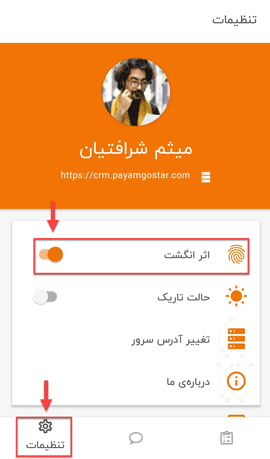
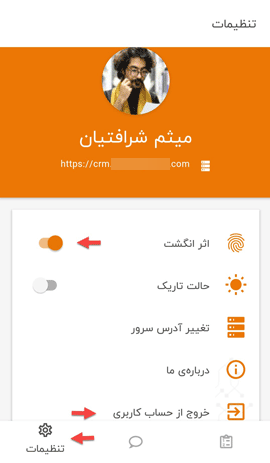
Edit login text and images with fingerprint

diff --git a/help2.5.4/Payamgostar'sMobileApp/LoginToApp.md b/help2.5.4/Payamgostar'sMobileApp/LoginToApp.md
@@ -1,11 +1,12 @@
 # راه های ورود به برنامه
 
 برخی اوقات ممکن است کاربران بنا به دلایلی چون عدم دسترسی به سیستم، مرخصی رفتن پرسنل، دورکاری، مسافرت و... امکان استفاده از نسخه تحت وب نرمافزار را نداشته باشند و از طرف دیگر احتمال لزوم انجام یک کار، شرایطی را فراهم کند که کاربران مجبور به استفاده از اپلیکیشن نرمافزار شوند تا بتوانند کار و وظیفه محول شده به خود را در اولین فرصت انجام دهند.<br>
-کاربران میبایست پس از نصب **اپلیکیشن پیام گستر** با نام کاربری و پسوردشان لاگین (ورود) کنند؛ در این مرحله در فیلد *آدرس سرور* باید IP مجموعه موردنظر وارد شود. شما میتوانید IP مجموعهتان را از لینک (URL) نسخه تحت وبتان بردارید. بهطور مثال شرکتی را در نظر بگیرید که نامش بامداد باشد و از آیدی crm.bamdad.com استفاده کند، بهطبع کاربرانش نیز باید همین عنوان را که در URL نسخه تحت وب مجموعه بامداد بوده، در فیلد *آدرس سرور* وارد کنند.
+کاربران میبایست پس از نصب **اپلیکیشن پیام گستر** با نام کاربری و پسوردشان لاگین (ورود) کنند؛ در این مرحله در فیلد *آدرس سرور* باید IP مجموعه موردنظر وارد شود. شما میتوانید IP مجموعهتان را از لینک (URL) نسخه تحت وبتان بردارید. بهطور مثال شرکتی را در نظر بگیرید که نامش *بامداد* باشد و از آیدی crm.bamdad.com استفاده کند، بهطبع کاربرانش نیز باید همین عنوان را که در URL نسخه تحت وب مجموعه بامداد بوده، در فیلد *آدرس سرور* وارد کنند.
 
 ![صفحه لاگین اپلیکیشن](./Images/ApplicationLoginPage.png)   
 
-کاربران میتوانند برای بالا بردن امنیت حساب کاربری خود، تنظیماتش را بهگونهای انجام دهند که فقط با اسکن اثر انگشت، امکان ورود به نرمافزار فراهم باشد؛ برای این منظور میبایست پس از لاگین کردن و ورود به نرمافزار، از منو پایین صفحه، وارد  تنظیمات (Settings) شده و گزینهی اثرانگشت را روشن (On) کنید. پس از انجام این کار، حتما باید یک بار از حساب کاربری خود خارج (Logout) شوید و مجدد لاگین کنید.
+کاربران میتوانند برای اینکه هربار مجبور به وارد کردن آدرس سرور، نام کاربری و کلمه عبور نباشند و سریع و بدون معطلی وارد برنامه شوند، از اسکن اثر انگشت برای ورود استفاده کنند. برای این منظور میبایست پس از لاگین کردن و ورود به نرمافزار، از منو پایین صفحه، وارد  **تنظیمات** (Settings) شده و گزینهی اثرانگشت را فعال (On) کنند. پس از روشن کردن گزینهی **اثر انگشت**، اپلیکیشن اثر انگشت ثبت شده شما در حافظهی گوشی موبایلتان را برای ورود به نرمافزار ذخیره میکند و پس از آن برای ورودهای آتی، شما علاوه بر امکان لاگین شدن با نام کاربری، میتوانید با اسکن اثر انگشتتان بدون معطلی به برنامه وارد شوید.<br>
+شما میتوانید پس از انجام این پروسه، برای رفرش (Refresh) شدن برنامه، یکبار از آن خارج شوید و مجدد لاگین کنید.
 
 ![فعالسازی ورود به اپ با اثر انگشت](./Images/EnableAppLoginWithFingerprint.png)
 

diff --git a/help2.5.4/Payamgostar'sMobileApp/UserAccountInformation.md b/help2.5.4/Payamgostar'sMobileApp/UserAccountInformation.md
@@ -1,8 +1,5 @@
 # اطلاعات حساب کاربری در اپلیکیشن
 
-زمانی که در اپلیکیشن وارد میشوید، میتوانید از منو پایین صفحه، گزینه تنظیمات (Settings) برخی از اطللاعات حساب کاربری خود را مشاهده کنید. از جمله این اطلاعات میتوان به تصویر پروفایل، نام و نامخانوادگی و آدرس سرور اشاره کرد. گفتنی است که این موارد (بهجز آدرس سرور) از اپلیکیشن قابل ادیت و یا تغییر نبوده و برای اعمال هرگونه تغییری بر روی این موارد میبایست به نسخه تحت وب مراجعه نمایید.
+زمانی که در اپلیکیشن وارد میشوید، میتوانید از منو پایین صفحه، گزینه **تنظیمات** (Settings)، برخی از اطللاعات حساب کاربری خود را مشاهده کنید. از جمله این اطلاعات میتوان به تصویر پروفایل، نام و نامخانوادگی و آدرس سرور اشاره کرد. گفتنی است که این موارد (بهجز آدرس سرور) از اپلیکیشن قابل ادیت و یا تغییر نبوده و برای اعمال هرگونه تغییری بر روی این موارد میبایست به نسخه تحت وب مراجعه نمایید.
 
 ![اطلاعات نمایشی حساب کاربری در اپ](./Images/UserAccountInformation.png)
-
-
-
